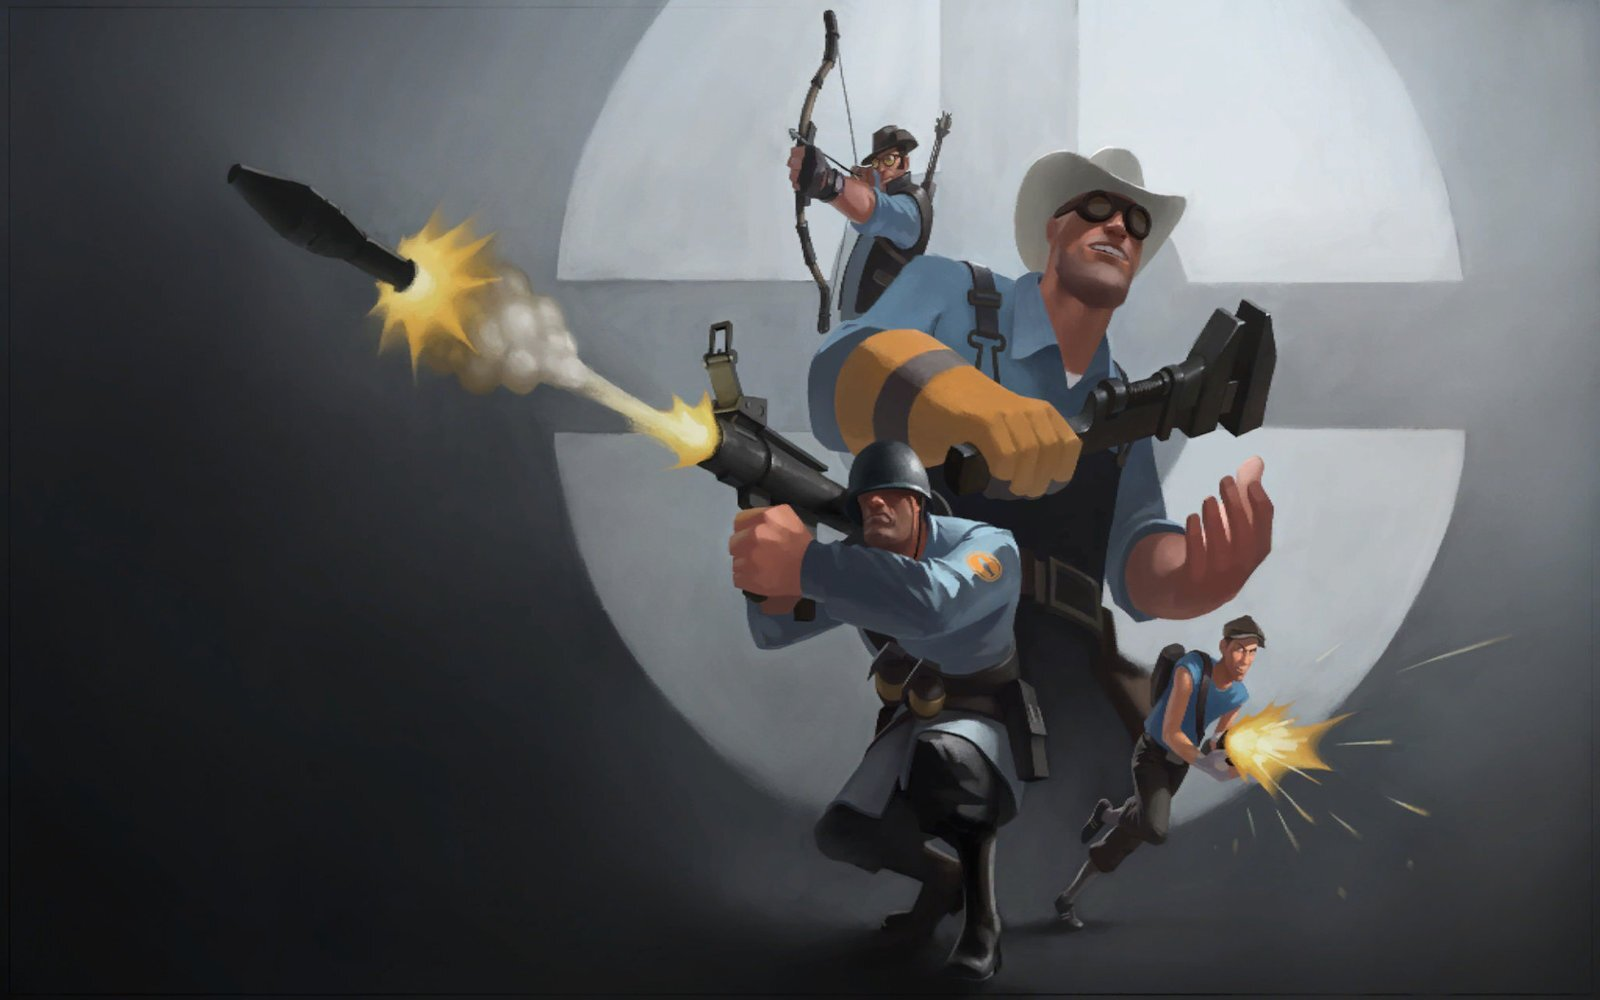
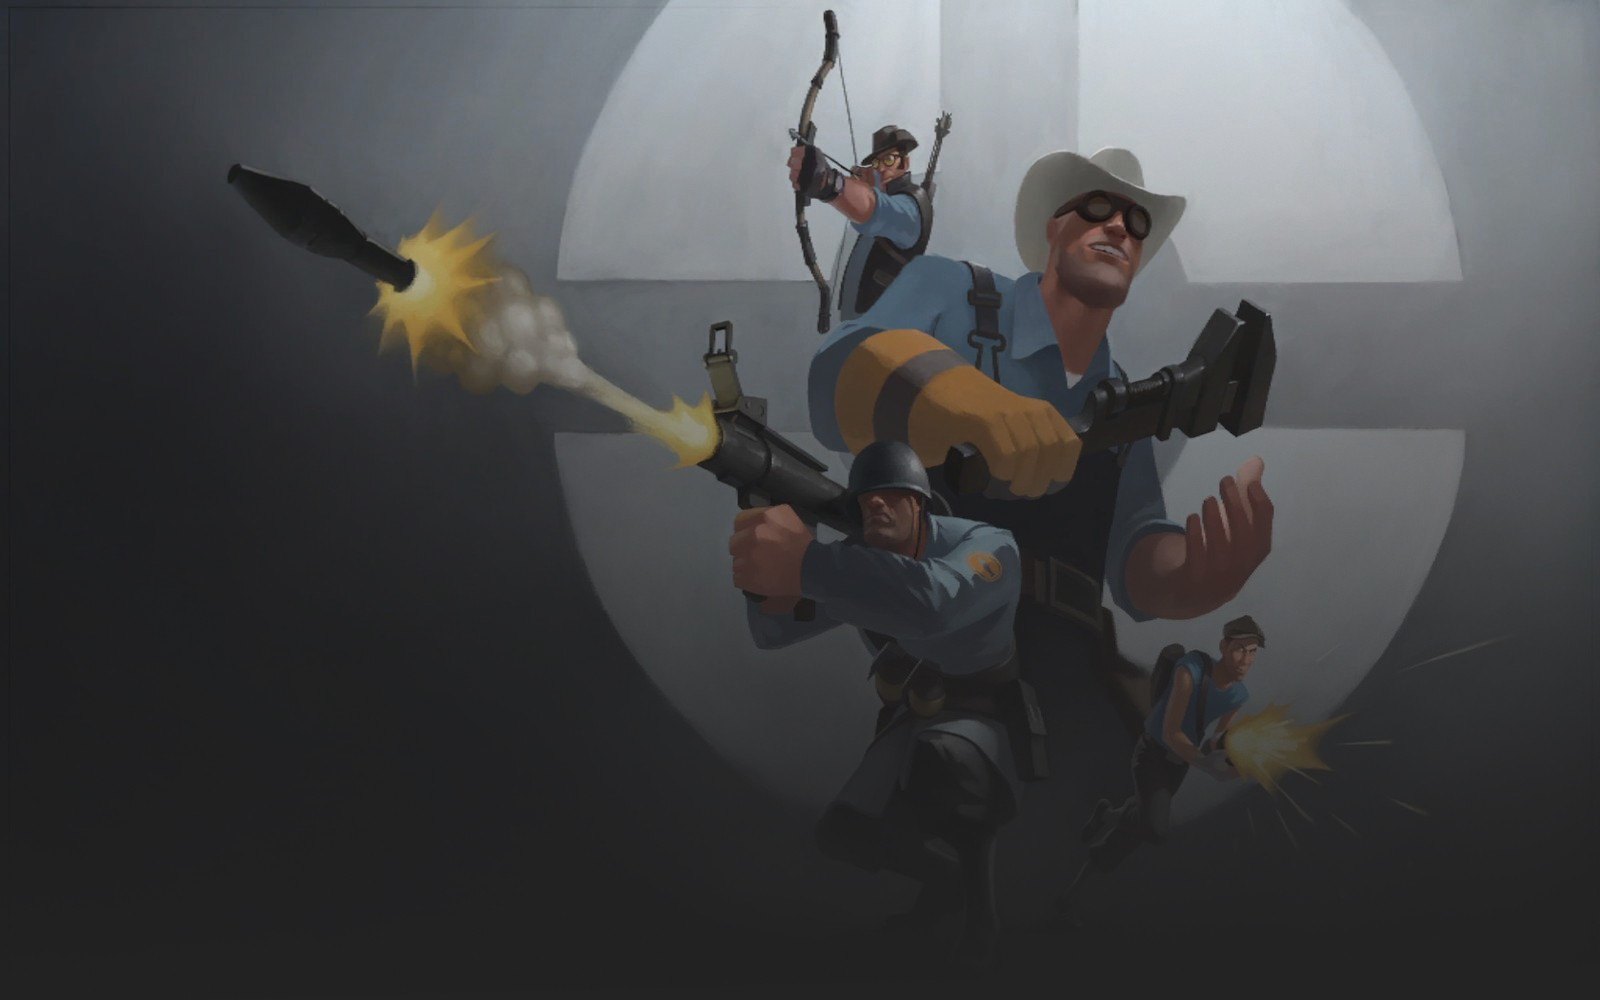
Fix Background Color and Images

diff --git a/index.html b/index.html
@@ -29,7 +29,7 @@
 	</style>
 	<link rel='shortcut icon' type='image/x-icon' href='https://bulutcorbaci.com.tr/favicon.ico' />
 </head>
-<body style="background-color:#060606;">
+<body style="background-color:#232323;">
 	<div style="background-color: #181818; color: white; padding: 10px;">
 	<h1 style="margin: auto; text-align: center; font-family: fippsregular;"><a href="https://bit.ly/33nhosQ" style="text-decoration: none;">Bulut Corbaci</a>&nbsp;</h1>
 	<div style="background-color: #696969; color: white; padding: 20px;">
@@ -39,6 +39,6 @@
 		<p>&nbsp;</p>
 	</div>
 	<p style="margin: auto; text-align: center; color: #494949; font-family: oxygenregular;">BulutCorbaci©</p>
-	<p style="margin: auto; text-align: center; font-family: oxygenregular;"><a href="https://steamcommunity.com/id/BitterTheChicken" style="text-decoration: none;"> <img src="https://img.shields.io/badge/-Account-black?style=flat-square&amp;logo=steam" alt="Steam" width="60" height="17.5" /></a><a href="https://www.curseforge.com/members/bulutcorbaci/projects" style="text-decoration: none;"><img src="https://img.shields.io/badge/-Account-orange?style=flat-square&amp;logo=curseforge" alt="Curseforge" width="60" height="17.5" /></a><a href="https://github.com/BulutCorbaci" style="text-decoration: none;"><img src="https://img.shields.io/badge/-Account-gray?style=flat-square&logo=github" alt="Curseforge" width="60" height="17.5" /></a></p>
+	<p style="margin: auto; text-align: center; font-family: oxygenregular;"><a href="https://steamcommunity.com/id/BitterTheChicken" style="text-decoration: none;"> <img src="https://img.shields.io/badge/-Account-black?style=flat-square&amp;logo=steam" alt="Steam" width="60" height="17" /></a><a href="https://www.curseforge.com/members/bulutcorbaci/projects" style="text-decoration: none;"><img src="https://img.shields.io/badge/-Account-orange?style=flat-square&amp;logo=curseforge" alt="Curseforge" width="60" height="17" /></a><a href="https://github.com/BulutCorbaci" style="text-decoration: none;"><img src="https://img.shields.io/badge/-Account-gray?style=flat-square&logo=github" alt="Curseforge" width="60" height="17" /></a></p>
 	</div>
 </body>

diff --git a/tf2007.html b/tf2007.html
@@ -31,7 +31,7 @@
 	</style>
 	<link rel='shortcut icon' type='image/x-icon' href='https://bulutcorbaci.com.tr/favicon.ico' />
 </head>
-<body style="background-color:#060606;">
+<body style="background-color:#232323;">
 	<div class="bg_page" style="background-image: url('./src/pics/background03_widescreen.jpg');">
 	<h1 style="margin: auto; text-align: center; font-family: fippsregular;"><a href="https://bit.ly/33nhosQ" style="text-decoration: none;">Bulut Corbaci</a></h1>
 	<div style="background-color: rgba(144, 144, 144, 0.5); color: white; padding: 20px;">

diff --git a/tf2classic.html b/tf2classic.html
@@ -31,7 +31,7 @@
 	</style>
 	<link rel='shortcut icon' type='image/x-icon' href='https://bulutcorbaci.com.tr/favicon.ico' />
 </head>
-<body style="background-color:#060606;">
+<body style="background-color:#232323;">
 	<div class="bg_page" style="background-image: url('./src/pics/background02_widescreen.png');">
 	<h1 style="margin: auto; text-align: center; font-family: fippsregular;"><a href="https://bit.ly/33nhosQ" style="text-decoration: none;">Bulut Corbaci</a></h1>
 	<div style="background-color: rgba(144, 144, 144, 0.5); color: white; padding: 20px;">

diff --git a/signin.html b/signin.html
@@ -32,7 +32,7 @@
     </style>
     <link rel='shortcut icon' type='image/x-icon' href='https://bulutcorbaci.com.tr/favicon.ico' />
 </head>
-<body style="background-color:#060606;">
+<body style="background-color:#232323;">
     <div style="background-color: #181818; color: white; padding: 10px;">
         <h1 style="margin: auto; text-align: center; font-family: fippsregular;"><a href="https://bit.ly/33nhosQ" style="text-decoration: none;">Bulut Corbaci</a>&nbsp;</h1>
         <div style="background-color: #696969; color: white; padding: 20px;">

diff --git a/403.html b/403.html
@@ -29,7 +29,7 @@
 	</style>
 	<link rel='shortcut icon' type='image/x-icon' href='https://bulutcorbaci.com.tr/favicon.ico' />
 </head>
-<body style="background-color:#060606;">
+<body style="background-color:#232323;">
 	<div style="background-color: #181818; color: white; padding: 10px;">
 	<h1 style="margin: auto; text-align: center; font-family: fippsregular;"><a href="https://bit.ly/33nhosQ" style="text-decoration: none;">Bulut Corbaci</a>&nbsp;</h1>
 	<div style="background-color: #696969; color: white; padding: 20px;">

diff --git a/404.html b/404.html
@@ -29,7 +29,7 @@
 	</style>
 	<link rel='shortcut icon' type='image/x-icon' href='https://bulutcorbaci.com.tr/favicon.ico' />
 </head>
-<body style="background-color:#060606;">
+<body style="background-color:#232323;">
 	<div style="background-color: #181818; color: white; padding: 10px;">
 	<h1 style="margin: auto; text-align: center; font-family: fippsregular;"><a href="https://bit.ly/33nhosQ" style="text-decoration: none;">Bulut Corbaci</a>&nbsp;</h1>
 	<div style="background-color: #696969; color: white; padding: 20px;">
